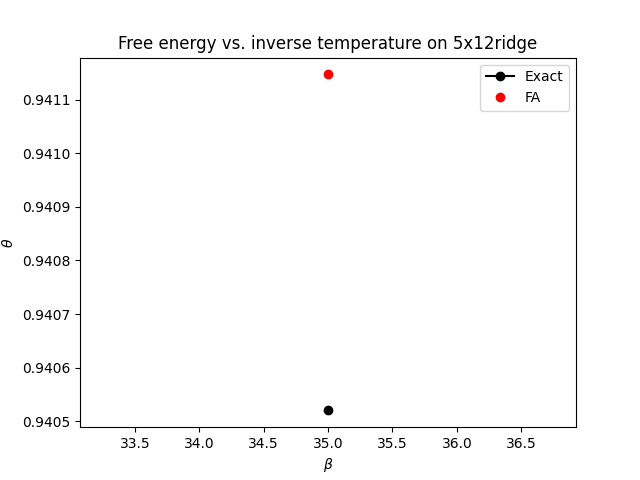
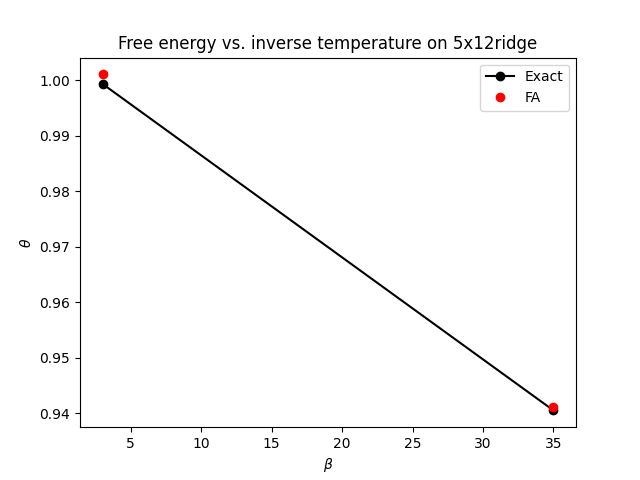
Update tabular and darer modules

diff --git a/tabular_vs_FA.py b/tabular_vs_FA.py
@@ -1,8 +1,12 @@
+import os
 import matplotlib.pyplot as plt
 import numpy as np
 import pandas as pd
 from gymnasium.wrappers import TimeLimit
-from darer.MultiLogU import LogULearner
+import sys
+sys.path.append("darer")
+from LogUAgent import LogUAgent
+from UAgent import UAgent
 from darer.hparams import *
 from darer.utils import get_eigvec_values
 from tabular.tabular_utils import get_dynamics_and_rewards, solve_unconstrained
@@ -28,12 +32,12 @@ def exact_solution(beta, env):
     return -np.log(l_true) / beta
 
 def FA_solution(beta, env):
-    # Use MultiLogU to solve the environment
+    # Use an agent to solve the environment
 
-    agent = LogULearner(env, **config, log_interval=1000, log_dir='pend',
-                        num_nets=2, device='cpu', 
-                        beta=beta, render=0, aggregator='max')
-    agent.learn(total_timesteps=100_000)
+    agent = LogUAgent(env, **config, log_interval=1000, tensorboard_log='pend',
+                        num_nets=2, device='cuda',# use_rawlik=False,
+                        beta=beta, render=False, aggregator='max')
+    agent.learn(total_timesteps=70_000)
     get_eigvec_values(agent, save_name=f'tabular/tabular_expt/data/{map_name}eigvec')
     # convert agent.theta to float
     theta = agent.theta.item()
@@ -57,7 +61,7 @@ def main():
     betas = np.logspace(1, 1, 4)
     betas = [14,19,24,30,37]
     betas = np.linspace(1, 50, 50)
-    betas = [35]
+    betas = [3]
 
     exact = [exact_solution(beta, env) for beta in betas]
     print(exact)
@@ -65,8 +69,9 @@ def main():
 
     # save the data:
     data = pd.DataFrame({'beta': betas, 'exact': exact, 'FA': FA})
-    data.to_csv(f'tabular/tabular_expt/data/{map_name}tabular_vs_FA50.csv', index=False)
-# [0.9999155228491464, 0.9987485370048285, 0.9891983268590409, 0.9777515697268231, 0.9681814068991201, 0.9603645308274785
+    # get number of files with same prefix:
+    num = len([f for f in os.listdir('tabular/tabular_expt/data') if f.startswith(f'{map_name}tabular_vs_FA')])
+    data.to_csv(f'tabular/tabular_expt/data/{map_name}tabular_vs_FA_{num}.csv', index=False)
     plt.figure()
     plt.plot(betas, exact, 'ko-', label='Exact')
     plt.plot(betas, FA, 'bo', label='FA')

diff --git a/darer/BaseAgent.py b/darer/BaseAgent.py
@@ -88,14 +88,17 @@ class BaseAgent:
                  ) -> None:
 
         # first check if Atari env or not:
-        is_atari = 'NoFrameskip' in env_id or 'ALE' in env_id
+        try:
+            is_atari = 'NoFrameskip' in env_id or 'ALE' in env_id
+        except:
+            is_atari = False
         self.env, self.eval_env = env_id_to_envs(env_id, render, is_atari=is_atari)
 
-        self.env_str = self.env.unwrapped.spec.id if hasattr(self.env.unwrapped.spec, 'id') else self.env.unwrapped.id
+        self.env_str = self.env.unwrapped.spec.id if hasattr(self.env.unwrapped.spec, 'id') else str(env_id)
         self.is_tabular = is_tabular(self.env)
         if self.is_tabular:
             # calculate the eigenvector exactly:
-            self.true_eigvec = get_true_eigvec(self).A.flatten()
+            self.true_eigvec = get_true_eigvec(self, beta).A.flatten()
 
         self.learning_rate = learning_rate
         self.beta = beta
@@ -211,11 +214,12 @@ class BaseAgent:
         #             ))
         # self.logger.record("train/max_grad", total_norm.item())
  
-    def learn(self, total_timesteps: int, early_stop: dict) -> bool:
+    def learn(self, total_timesteps: int, early_stop: dict = {}) -> bool:
         """
         Train the agent for total_timesteps
         """
-        stop_steps, stop_reward = early_stop['steps'], early_stop['reward']
+        stop_steps = early_stop.get('steps', 0)
+        stop_reward = early_stop.get('reward', -np.inf)
         self.betas = self._beta_scheduler(self.beta_schedule, total_timesteps)
 
         # Start a timer to log fps:

diff --git a/experiments/wandb_job.py b/experiments/wandb_job.py
@@ -1,9 +1,11 @@
-from UAgent import UAgent
-import wandb
-import argparse
 import sys
 
 sys.path.append("darer")
+from UAgent import UAgent
+from LogUAgent import LogUAgent
+import wandb
+import argparse
+
 
 # env_id = 'CartPole-v1'
 # env_id = 'MountainCar-v0'
@@ -42,11 +44,12 @@ def runner(config=None, run=None, device='cpu'):
 
     for _ in range(runs_per_hparam):
         print(env_id)
-        agent = UAgent(env_id=env_id, **config, log_interval=500, use_wandb=True,
+        agent = LogUAgent(env_id=env_id, **config, log_interval=500, use_wandb=True,
                        device=device, render=False, beta_end=beta_end,
                        # beta_schedule=config.pop('beta_scheduler', 'none'),
                        num_nets=2,
                        )
+        wandb.log({'agent_name': agent.algo_name})
 
         wandb.log({'env_id': agent.env_str})
         if env_id in ['LunarLander-v2', 'MountainCar-v0']:
@@ -78,7 +81,7 @@ if __name__ == "__main__":
     parser.add_argument("-c", "--count", type=int, default=15_000)
     parser.add_argument("-e", "--entity", type=str, default='jacobhadamczyk')
     parser.add_argument("-p", "--project", type=str, default='u-chi-learning')
-    parser.add_argument("-s", "--sweep_id", type=str, default='ived4ut9')
+    parser.add_argument("-s", "--sweep_id", type=str, default='rud90h68')
     parser.add_argument("-env", "--env_id", type=str, default='CartPole-v1')
     args = parser.parse_args()
     entity = args.entity

diff --git a/darer/utils.py b/darer/utils.py
@@ -93,7 +93,7 @@ def get_eigvec_values(fa, save_name=None):
     nA = fa.nA
     eigvec = np.zeros((nS, nA))
     for i in range(nS):
-        eigvec[i, :] = np.mean([logu.forward(i).cpu().detach().numpy() for logu in fa.online_logus.nets],axis=0)
+        eigvec[i, :] = np.mean([logu.forward(i).cpu().detach().numpy() for logu in fa.model.nets],axis=0)
 
     if save_name is not None:
         np.save(f'{save_name}.npy', eigvec)
@@ -102,14 +102,14 @@ def get_eigvec_values(fa, save_name=None):
     eigvec /= np.linalg.norm(eigvec)
     return eigvec
 
-def get_true_eigvec(fa):
+def get_true_eigvec(fa, beta):
     dynamics, rewards = get_dynamics_and_rewards(fa.env.unwrapped)
     # uniform prior:
     n_states, SA = dynamics.shape
     n_actions = int(SA / n_states)
     prior_policy = np.ones((n_states, n_actions)) / n_actions
     solution = solve_unconstrained(
-        fa.beta, dynamics, rewards, prior_policy, eig_max_it=1_000_000, tolerance=1e-12)
+        beta, dynamics, rewards, prior_policy, eig_max_it=1_000_000, tolerance=1e-12)
     l_true, u_true, v_true, optimal_policy, optimal_dynamics, estimated_distribution = solution
     # normalize:
     u_true /= np.linalg.norm(u_true)

diff --git a/darer/UAgent.py b/darer/UAgent.py
@@ -12,12 +12,12 @@ class UAgent(BaseAgent):
     def __init__(self,
                  *args,
                  use_rawlik=False,
-                 prior_update_freq: int = 20_000,
+                 prior_update_interval: int = 20_000,
                  prior_tau: float = 1.0,
                  **kwargs,
                  ):
         self.algo_name = 'U'
-        self.prior_update_freq = prior_update_freq
+        self.prior_update_interval = prior_update_interval
         self.prior_tau = prior_tau
         self.use_rawlik = use_rawlik
         super().__init__(*args, **kwargs)
@@ -72,7 +72,7 @@ class UAgent(BaseAgent):
     def _on_step(self):
         super()._on_step()
         if self.use_rawlik:
-            if self.env_steps % self.prior_update_freq == 0:
+            if self.env_steps % self.prior_update_interval == 0:
                 self.target_prior.polyak(self.online_prior, self.prior_tau)
 
     def gradient_descent(self, batch, grad_step: int):

diff --git a/darer/LogUAgent.py b/darer/LogUAgent.py
@@ -5,7 +5,7 @@ from BaseAgent import BaseAgent
 from Models import LogUNet, OnlineNets, Optimizers, TargetNets
 from utils import logger_at_folder
 
-class LogU(BaseAgent):
+class LogUAgent(BaseAgent):
     def __init__(self,
                  *args,
                  **kwargs,
@@ -99,7 +99,7 @@ def main():
     # env_id = 'Drug-v0'
 
     from hparams import nature_pong as config
-    agent = LogU(env_id, **config, device='cuda', log_interval=5000,
+    agent = LogUAgent(env_id, **config, device='cuda', log_interval=5000,
                         tensorboard_log='acro', num_nets=2, render=False, aggregator='max',
                         scheduler_str='none')#, beta_schedule = 'linear', beta_end=2.4)
     # Measure the time it takes to learn:

diff --git a/darer/hparams.py b/darer/hparams.py
@@ -38,6 +38,26 @@ cartpole_hparams2 = {
     'train_freq': 1,
     'learning_starts': 10000
 }
+
+cartpole_rawlik = {
+    'batch_size': 16,
+    'beta': 0.8,
+    # 'beta_schedule': 'linear',
+    'buffer_size': 100_000,
+    # 'final_beta_multiplier': 6,
+    'hidden_dim': 64,
+    'learning_rate': 0.009,
+    'learning_starts': 1000,
+    'prior_tau': 0.35,
+    'prior_update_interval': 64,
+    'target_update_interval': 200,
+    'tau': 0.3,
+    'tau_theta': 0.6,
+    'theta_update_interval': 100,
+    'train_freq': 3,
+    'learning_starts': 500,
+}
+
 mcar_hparams = {
     'beta': 0.078,
     'batch_size': 950,
